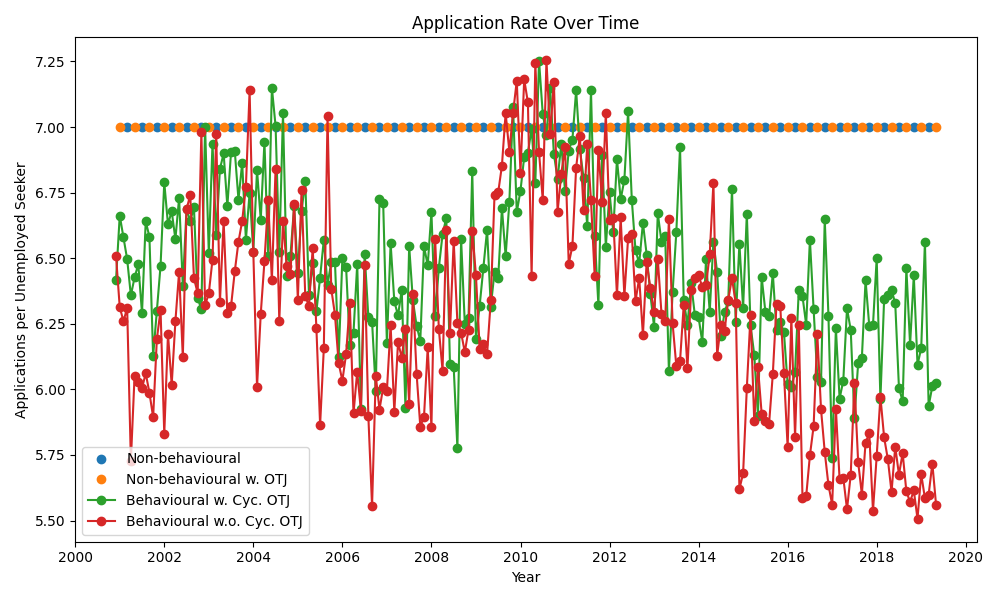
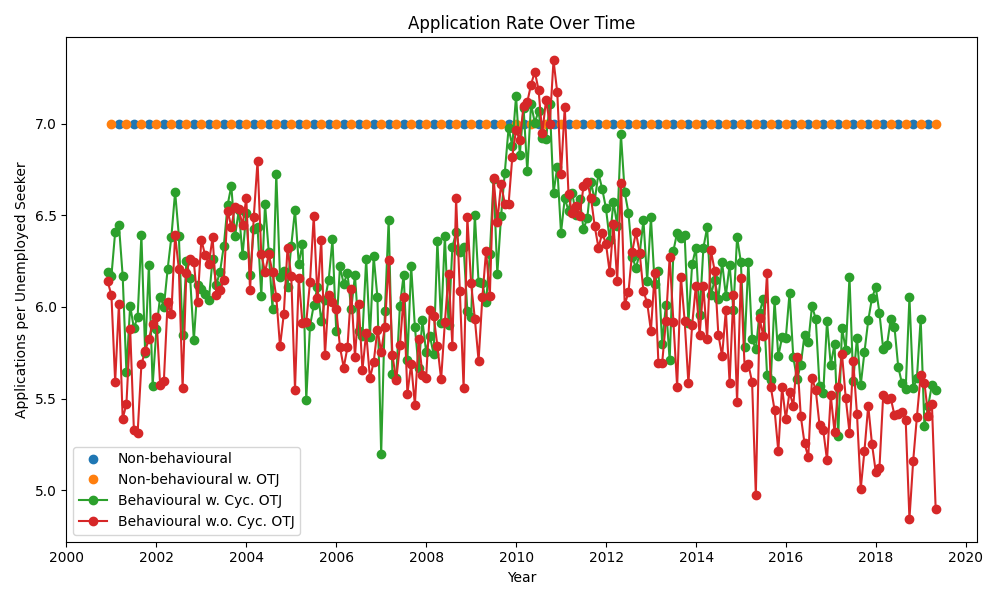
figures with updated otj effort

diff --git a/calibration_remote/output/figures/ts_metrics_table.tex b/calibration_remote/output/figures/ts_metrics_table.tex
@@ -5,42 +5,42 @@
 \toprule
 Model & Variable & Mean (Sim) & Mean (Obs) & SSE & Correlation \\
 \midrule
-Non-behavioural & VACRATE & \cellcolor{yellow!25}0.031 & 0.031 & \cellcolor{yellow!25}0.001 & \cellcolor{yellow!25}0.952 \\
-Non-behavioural & UER & \cellcolor{yellow!25}0.058 & 0.060 & 0.017 & \cellcolor{yellow!25}0.970 \\
-Non-behavioural & LTUER & 0.054 & 0.264 & 10.609 & \cellcolor{yellow!25}0.783 \\
-Non-behavioural & Hires Rate & 0.030 & 0.036 & \cellcolor{yellow!25}0.011 & 0.508 \\
-Non-behavioural & Separations Rate & 0.032 & 0.036 & \cellcolor{yellow!25}0.006 & 0.404 \\
-Non-behavioural & UE_Trans_Rate & 0.028 & 0.014 & 0.057 & -0.472 \\
+Non-behavioural & VACRATE & \cellcolor{yellow!25}0.031 & 0.031 & \cellcolor{yellow!25}0.001 & \cellcolor{yellow!25}0.955 \\
+Non-behavioural & UER & \cellcolor{yellow!25}0.059 & 0.060 & 0.027 & \cellcolor{yellow!25}0.972 \\
+Non-behavioural & LTUER & 0.059 & 0.264 & 10.220 & 0.787 \\
+Non-behavioural & Hires Rate & 0.030 & 0.036 & \cellcolor{yellow!25}0.012 & 0.539 \\
+Non-behavioural & Separations Rate & 0.032 & 0.036 & \cellcolor{yellow!25}0.007 & 0.400 \\
+Non-behavioural & UE_Trans_Rate & 0.028 & 0.014 & 0.055 & -0.475 \\
 Non-behavioural & EE_Trans_Rate & 0.000 & 0.019 & 0.080 & -- \\
 Non-behavioural & Application Effort (U) & -- & -- & -- & -- \\
 Non-behavioural & Seeker Composition & 0.000 & 0.410 & 37.974 & -- \\
-Non-behavioural w. OTJ & VACRATE & 0.031 & 0.031 & 0.001 & 0.949 \\
-Non-behavioural w. OTJ & UER & 0.063 & 0.060 & \cellcolor{yellow!25}0.010 & 0.934 \\
-Non-behavioural w. OTJ & LTUER & 0.147 & 0.264 & 4.559 & 0.670 \\
-Non-behavioural w. OTJ & Hires Rate & \cellcolor{yellow!25}0.032 & 0.036 & 0.011 & 0.560 \\
-Non-behavioural w. OTJ & Separations Rate & \cellcolor{yellow!25}0.034 & 0.036 & 0.009 & 0.438 \\
-Non-behavioural w. OTJ & UE_Trans_Rate & 0.018 & 0.014 & 0.009 & -0.504 \\
-Non-behavioural w. OTJ & EE_Trans_Rate & \cellcolor{yellow!25}0.012 & 0.019 & 0.019 & 0.048 \\
+Non-behavioural w. OTJ & VACRATE & 0.031 & 0.031 & 0.001 & 0.951 \\
+Non-behavioural w. OTJ & UER & 0.050 & 0.060 & 0.038 & 0.912 \\
+Non-behavioural w. OTJ & LTUER & 0.078 & 0.264 & 8.832 & 0.690 \\
+Non-behavioural w. OTJ & Hires Rate & \cellcolor{yellow!25}0.032 & 0.036 & 0.012 & 0.539 \\
+Non-behavioural w. OTJ & Separations Rate & \cellcolor{yellow!25}0.034 & 0.036 & 0.009 & 0.406 \\
+Non-behavioural w. OTJ & UE_Trans_Rate & 0.019 & 0.014 & 0.011 & -0.445 \\
+Non-behavioural w. OTJ & EE_Trans_Rate & \cellcolor{yellow!25}0.011 & 0.019 & \cellcolor{yellow!25}0.021 & 0.035 \\
 Non-behavioural w. OTJ & Application Effort (U) & -- & -- & -- & -- \\
-Non-behavioural w. OTJ & Seeker Composition & 0.468 & 0.410 & 1.175 & 0.788 \\
-Behavioural w. Cyc. OTJ & VACRATE & 0.030 & 0.031 & 0.002 & 0.933 \\
-Behavioural w. Cyc. OTJ & UER & 0.071 & 0.060 & 0.050 & 0.900 \\
-Behavioural w. Cyc. OTJ & LTUER & \cellcolor{yellow!25}0.225 & 0.264 & \cellcolor{yellow!25}1.244 & 0.781 \\
-Behavioural w. Cyc. OTJ & Hires Rate & 0.027 & 0.036 & 0.021 & \cellcolor{yellow!25}0.687 \\
-Behavioural w. Cyc. OTJ & Separations Rate & 0.029 & 0.036 & 0.011 & \cellcolor{yellow!25}0.575 \\
-Behavioural w. Cyc. OTJ & UE_Trans_Rate & \cellcolor{yellow!25}0.014 & 0.014 & \cellcolor{yellow!25}0.002 & \cellcolor{yellow!25}-0.070 \\
-Behavioural w. Cyc. OTJ & EE_Trans_Rate & 0.011 & 0.019 & \cellcolor{yellow!25}0.017 & 0.172 \\
-Behavioural w. Cyc. OTJ & Application Effort (U) & -- & -- & -- & 0.535 \\
-Behavioural w. Cyc. OTJ & Seeker Composition & \cellcolor{yellow!25}0.403 & 0.410 & \cellcolor{yellow!25}0.557 & 0.756 \\
-Behavioural w.o. Cyc. OTJ & VACRATE & 0.030 & 0.031 & 0.002 & 0.948 \\
-Behavioural w.o. Cyc. OTJ & UER & 0.063 & 0.060 & 0.018 & 0.914 \\
-Behavioural w.o. Cyc. OTJ & LTUER & 0.198 & 0.264 & 1.902 & 0.735 \\
-Behavioural w.o. Cyc. OTJ & Hires Rate & 0.026 & 0.036 & 0.026 & 0.670 \\
-Behavioural w.o. Cyc. OTJ & Separations Rate & 0.028 & 0.036 & 0.015 & 0.565 \\
-Behavioural w.o. Cyc. OTJ & UE_Trans_Rate & 0.014 & 0.014 & 0.002 & -0.152 \\
-Behavioural w.o. Cyc. OTJ & EE_Trans_Rate & 0.010 & 0.019 & 0.019 & \cellcolor{yellow!25}0.294 \\
-Behavioural w.o. Cyc. OTJ & Application Effort (U) & -- & -- & -- & \cellcolor{yellow!25}0.682 \\
-Behavioural w.o. Cyc. OTJ & Seeker Composition & 0.457 & 0.410 & 0.717 & \cellcolor{yellow!25}0.796 \\
+Non-behavioural w. OTJ & Seeker Composition & 0.529 & 0.410 & 3.560 & \cellcolor{yellow!25}0.782 \\
+Behavioural w. Cyc. OTJ & VACRATE & 0.029 & 0.031 & 0.003 & 0.934 \\
+Behavioural w. Cyc. OTJ & UER & 0.061 & 0.060 & 0.015 & 0.928 \\
+Behavioural w. Cyc. OTJ & LTUER & \cellcolor{yellow!25}0.146 & 0.264 & \cellcolor{yellow!25}3.855 & \cellcolor{yellow!25}0.807 \\
+Behavioural w. Cyc. OTJ & Hires Rate & 0.025 & 0.036 & 0.031 & \cellcolor{yellow!25}0.705 \\
+Behavioural w. Cyc. OTJ & Separations Rate & 0.027 & 0.036 & 0.019 & \cellcolor{yellow!25}0.576 \\
+Behavioural w. Cyc. OTJ & UE_Trans_Rate & \cellcolor{yellow!25}0.016 & 0.014 & \cellcolor{yellow!25}0.002 & \cellcolor{yellow!25}0.006 \\
+Behavioural w. Cyc. OTJ & EE_Trans_Rate & 0.008 & 0.019 & 0.031 & 0.193 \\
+Behavioural w. Cyc. OTJ & Application Effort (U) & -- & -- & -- & 0.620 \\
+Behavioural w. Cyc. OTJ & Seeker Composition & 0.544 & 0.410 & 5.005 & 0.775 \\
+Behavioural w.o. Cyc. OTJ & VACRATE & 0.030 & 0.031 & 0.002 & 0.951 \\
+Behavioural w.o. Cyc. OTJ & UER & 0.061 & 0.060 & \cellcolor{yellow!25}0.011 & 0.917 \\
+Behavioural w.o. Cyc. OTJ & LTUER & 0.127 & 0.264 & 5.047 & 0.750 \\
+Behavioural w.o. Cyc. OTJ & Hires Rate & 0.023 & 0.036 & 0.038 & 0.632 \\
+Behavioural w.o. Cyc. OTJ & Separations Rate & 0.026 & 0.036 & 0.023 & 0.570 \\
+Behavioural w.o. Cyc. OTJ & UE_Trans_Rate & 0.017 & 0.014 & 0.005 & -0.077 \\
+Behavioural w.o. Cyc. OTJ & EE_Trans_Rate & 0.005 & 0.019 & 0.046 & \cellcolor{yellow!25}0.255 \\
+Behavioural w.o. Cyc. OTJ & Application Effort (U) & -- & -- & -- & \cellcolor{yellow!25}0.677 \\
+Behavioural w.o. Cyc. OTJ & Seeker Composition & \cellcolor{yellow!25}0.471 & 0.410 & \cellcolor{yellow!25}1.152 & 0.772 \\
 \bottomrule
 \end{tabular}
 \end{adjustbox}
